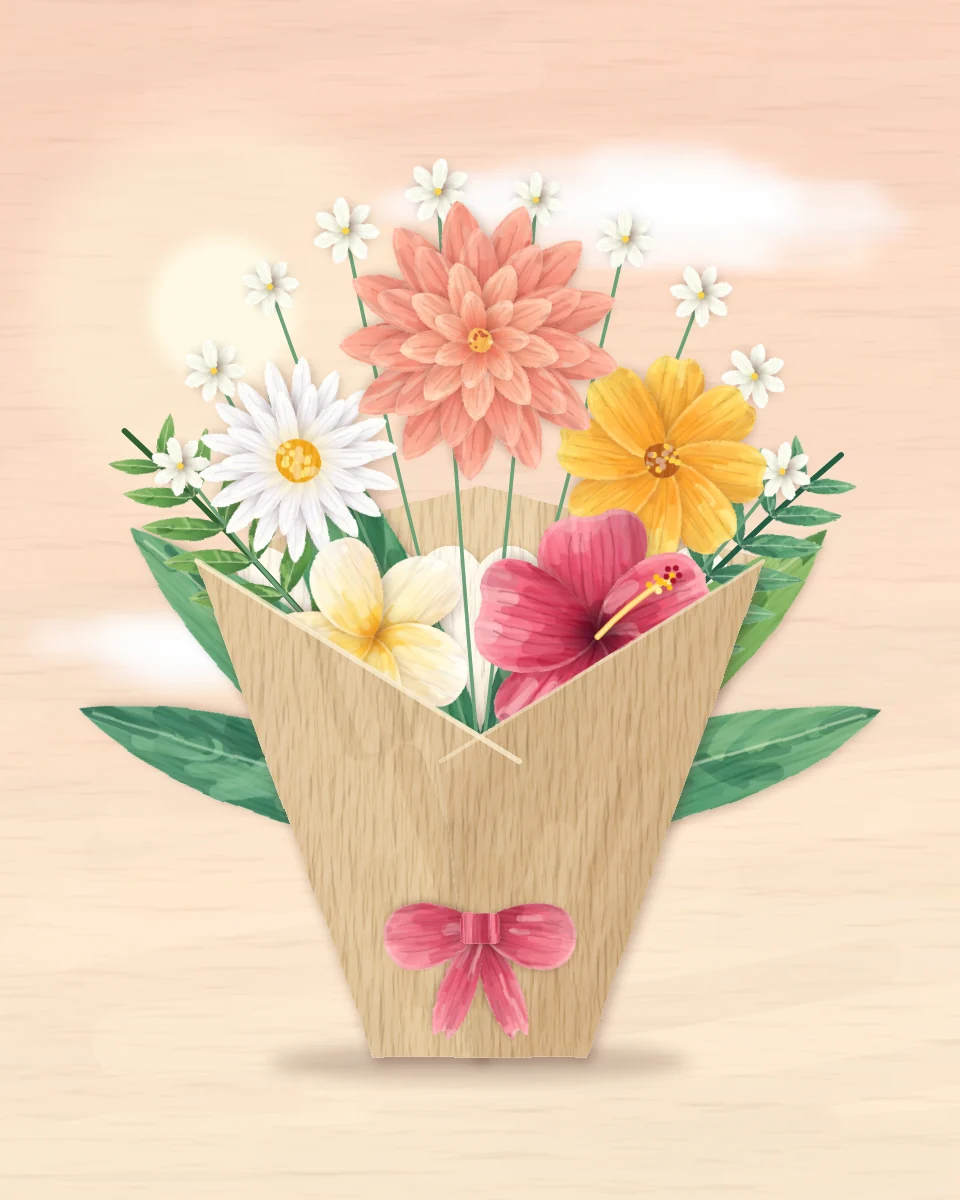
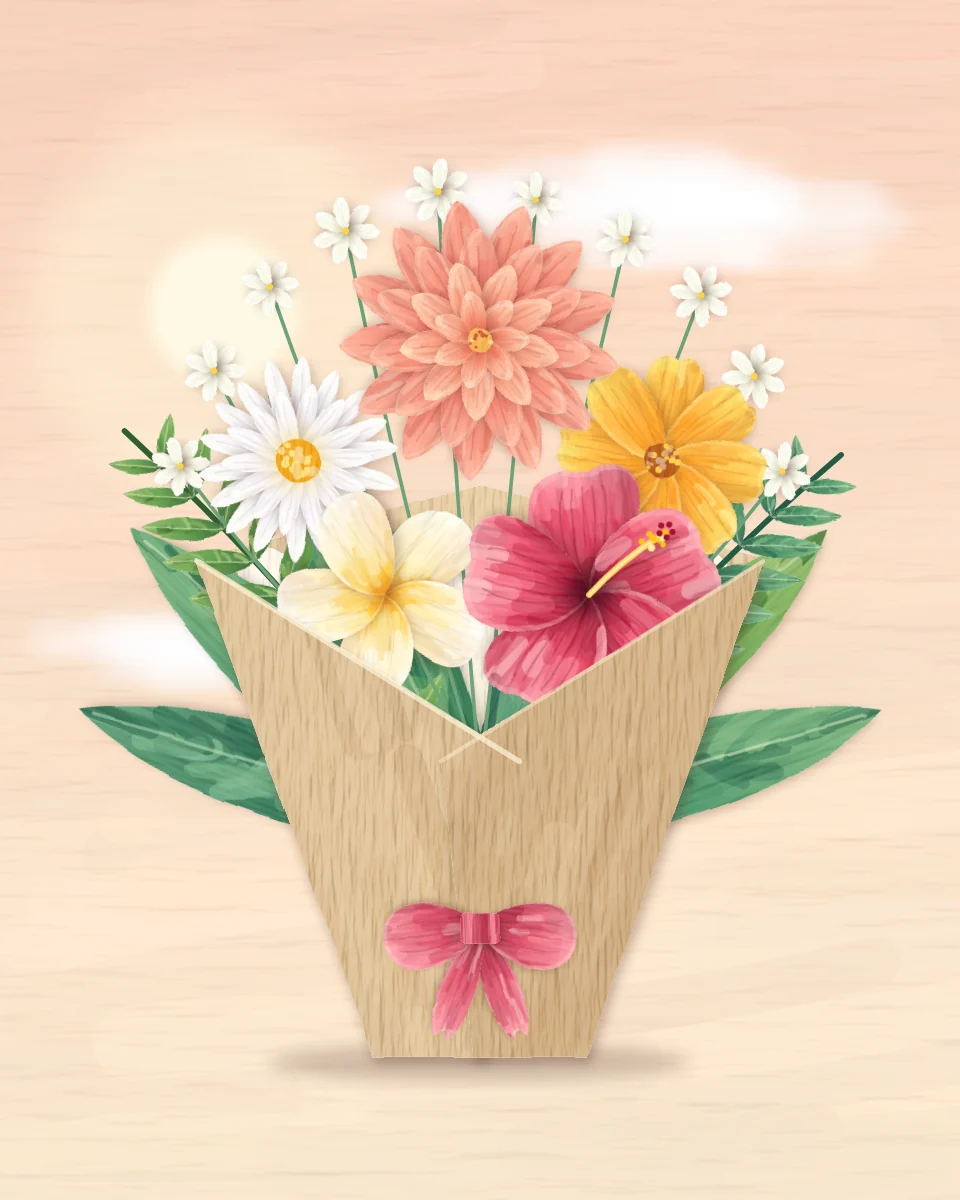
Buket: dua kuncup bawah dinaikkan supaya terlihat utuh
Di susunan 5 bunga, dua kuncup terbawah tadinya separuh tertutup kertas
pembungkus sehingga sering tidak disadari bisa diketuk. Posisinya dinaikkan
dan sedikit dirapatkan ke tengah: kuncupnya kini berdiri utuh di atas tepi
kertas, dan setelah mekar buketnya tetap penuh dan rapi. Sampul katalog
dirender ulang mengikuti susunan baru.

Claude-Session: https://claude.ai/code/session_01Br6JgvCCyNJjfHHZJfQocM

Changed region(s): [[0.2812, 0.37, 0.75, 0.6167]]

diff --git a/src/templates/buket/index.tsx b/src/templates/buket/index.tsx
@@ -15,6 +15,7 @@ type Head = { kind: string; bud: string; x: number; y: number; d: number; dot: s
 const H = (kind: string, bud: string, x: number, y: number, d: number, dot: string, rot = 0): Head => ({ kind, bud, x, y, d, dot, rot });
 
 /** Indeks 2 selalu dahlia di tengah: kuncup paling malu yang mekar paling akhir. */
+/** Dua bunga bawah (susunan 5) sengaja agak tinggi: kuncupnya harus terlihat utuh di atas tepi kertas pembungkus. */
 const CENTER = 2;
 const LAYOUTS: Record<number, Head[]> = {
   3: [
@@ -32,8 +33,8 @@ const LAYOUTS: Record<number, Head[]> = {
     H('aster', 'kamboja', 170, 266, 176, '#f2a40f', -8),
     H('kenikir', 'kenikir', 430, 266, 176, '#ff9f1f', 12),
     H('dahlia', 'dahlia', 300, 180, 222, '#ee6a58', 4),
-    H('kamboja', 'pink', 224, 392, 160, '#ffcb3d', 20),
-    H('sepatu', 'sepatu', 384, 392, 176, '#c8203f', -14),
+    H('kamboja', 'pink', 232, 362, 166, '#ffcb3d', 20),
+    H('sepatu', 'sepatu', 378, 362, 180, '#c8203f', -14),
   ],
 };
 

diff --git a/art/sprites/30-buket.js b/art/sprites/30-buket.js
@@ -76,7 +76,7 @@
   F.sprites['pita'] = { w: 300, h: 240, seed: 74, draw(svg, R) { bow(el('g', { transform: 'translate(150 84)' }, svg), R); } };
 
   /** Susunan kepala bunga (koordinat kanvas 600×720): [jenis, x, y, diameter] */
-  const HEADS = [['aster', 170, 266, 176], ['kenikir', 430, 266, 176], ['dahlia', 300, 180, 222], ['kamboja', 224, 392, 160], ['sepatu', 384, 392, 176]];
+  const HEADS = [['aster', 170, 266, 176], ['kenikir', 430, 266, 176], ['dahlia', 300, 180, 222], ['kamboja', 232, 362, 166], ['sepatu', 378, 362, 180]];
 
   // kartu katalog: buket utuh di atas langit pagi
   F.sprites['cover-buket'] = { w: 480, h: 600, seed: 75, draw(svg, R) {
